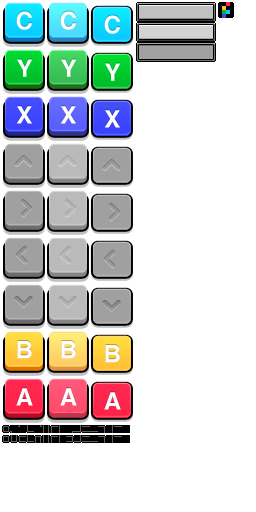
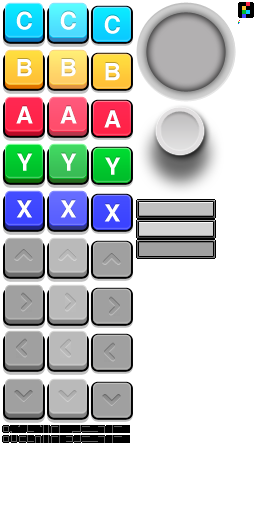
Bug Fix - FlxU::round : incorrect cast, should be int. Give wrong result when the value is a negative number.
Updated
- FlxAnalog: stick won't get stuck when the touch is outside the area of the base. Added motion when the stick is released.
- AnalogDemo.

Deleted
- control_base.png
- control_knob.png

Added
- new design for base and stick.

diff --git a/flixel/src/org/flixel/FlxAnalog.java b/flixel/src/org/flixel/FlxAnalog.java
@@ -1,7 +1,6 @@
 package org.flixel;
 
-import com.badlogic.gdx.Gdx;
-import com.badlogic.gdx.math.Circle;
+import com.badlogic.gdx.math.Rectangle;
 
 /**
  * 
@@ -10,9 +9,12 @@ import com.badlogic.gdx.math.Circle;
  */
 public class FlxAnalog extends FlxGroup
 {
-	/**
-	 * How fast the speed of this object is changing.
-	 */
+	// Base image
+	private final String ImgBase = "org/flixel/data/pack:base";
+	// Stick image
+	private final String ImgStick = "org/flixel/data/pack:stick";
+	
+	// How fast the speed of this object is changing.	
 	private static final float ACCELERATION = 10;
 	
 	public float x;
@@ -20,13 +22,16 @@ public class FlxAnalog extends FlxGroup
 	private float _centerX;
 	private float _centerY;
 
-	private Circle _pad;
+	private Rectangle _pad;
 	private FlxSprite _base;
-	private FlxSprite _stick;
+	public FlxSprite _stick;
 	
 	public FlxPoint accel;
 	public boolean pressed;
-	
+	private float yMin;
+	private float yMax;
+	private float xMin;
+	private float xMax;
 		
 	/**
 	 * Constructor
@@ -36,30 +41,30 @@ public class FlxAnalog extends FlxGroup
 	public FlxAnalog(float X, float Y)
 	{
 		accel  = new FlxPoint();
-		//float radius = Gdx.graphics.getWidth()/32;
-		float resWidth = Gdx.graphics.getWidth();
-		float resHeight = Gdx.graphics.getHeight();
-		float difWidth = FlxG.width/resWidth;
-		float difHeight = FlxG.height/resHeight;
-
 		x = X;
 		y = Y;		
 		
-		_pad = new Circle(64+X, 64+Y, 64);
-		_centerX = X+_pad.radius-32;
-		_centerY = Y+_pad.radius-32;
+		yMin = 0-24+y;
+		yMax = 100-24+y;
+		xMin = 0-24+x;
+		xMax = 100-24+x;
 		
-		_base = new FlxSprite(X,Y);//, SystemAsset.ImgControlBase);
-		_base.setAlpha(0.75f);
-		_base.scale = new FlxPoint(difWidth, difHeight);
+		_pad = new Rectangle(x,y,100,100);
+		_centerX = X+_pad.width*.25f;
+		_centerY = Y+_pad.width*.25f;
+		
+		_base = new FlxSprite(X,Y, ImgBase);
+		//_base.setAlpha(0.75f);
 		_base.setSolid(false);
-//		_base.ignoreDrawDebug = true;
+		_base.ignoreDrawDebug = true;
 		add(_base);
 		
-		_stick = new FlxSprite(_centerX, _centerY);//, SystemAsset.ImgControlKnob);
+		_stick = new FlxSprite(_centerX, _centerY, ImgStick);
+		_stick.width = _stick.height = 48;
+		_stick.offset.x = 20; 
+		_stick.offset.y = 3;
 		_stick.setSolid(false);
-		_stick.scale = new FlxPoint(difWidth, difHeight);
-//		_stick.ignoreDrawDebug = true;
+		_stick.ignoreDrawDebug = true;
 		add(_stick);
 	}
 	
@@ -69,20 +74,33 @@ public class FlxAnalog extends FlxGroup
 	{
 		if(FlxG.mouse.pressed())
 		{
-			if(_pad.contains(FlxG.mouse.x, FlxG.mouse.y))
+			if(_pad.contains(FlxG.mouse.screenX, FlxG.mouse.screenY) || pressed)
 			{
 				pressed = true;
 				_stick.x = FlxG.mouse.x - _stick.width*.5f;
 				_stick.y = FlxG.mouse.y - _stick.height*.5f;
-				accel.x = ((64 - (128 - (FlxG.mouse.x)))-x) / ACCELERATION;
-				accel.y = ((64 - (128 - (FlxG.mouse.y)))-y) / ACCELERATION;
+				
+				if(_stick.y <= yMin)
+					_stick.y = yMin;
+				if(_stick.y >= yMax)
+					_stick.y = yMax;
+				if(_stick.x <= xMin)
+					_stick.x = xMin;
+				if(_stick.x >= xMax)
+					_stick.x = xMax;
+				
+				accel.x = ((74 - (100 - (_stick.x)))-x) / ACCELERATION;
+				accel.y = ((74 - (100 - (_stick.y)))-y) / ACCELERATION;
 			}
 		}
 		else
 		{
 			pressed = false;			
-			_stick.x = _centerX;
-			_stick.y = _centerY;
+			_stick.x = _centerX -((_centerX - _stick.x) / 1.5f);
+			_stick.y = _centerY - ((_centerY - _stick.y) / 1.5f);
+			// TODO: add motion to accel when released.
+			accel.x = 0;//FlxU.round(((74 - (100 - (_stick.x)))-x) / ACCELERATION);
+			accel.y = 0;//FlxU.round(((74 - (100 - (_stick.y)))-y) / ACCELERATION);			
 		}
 		super.update();
 	}

diff --git a/flixel-examples/src/org/flixel/examples/analog/PlayState.java b/flixel-examples/src/org/flixel/examples/analog/PlayState.java
@@ -9,12 +9,13 @@ public class PlayState extends FlxState
 {
 	private FlxSprite _player;
 	private FlxAnalog _analog;
+	final float radiansToDegrees = (float) (180/Math.PI);
+	
 	
 	@Override
 	public void create()
 	{
-		FlxG.setBgColor(0xFFFAAAF);
-
+		FlxG.setBgColor(0xFF131C1B);
 		_player = new FlxSprite(10, 10);
 		add(_player);
 		
@@ -29,21 +30,34 @@ public class PlayState extends FlxState
 		add(s = new FlxSprite(FlxG.width-2, 0).makeGraphic(2, FlxG.height));
 		s.immovable = true;
 		
-		add(_analog = new FlxAnalog(0,0));
+		add(_analog = new FlxAnalog(10,FlxG.height-110));
 	}
 	
 	
 	@Override
 	public void update()
 	{
+		super.update();
 		_player.velocity.x = _player.velocity.y = 0;
-		if(_analog.pressed)
+		//if(_analog.pressed)
 		{
 			_player.velocity.x = 40*(_analog.accel.x);
 			_player.velocity.y = 40*(_analog.accel.y);
+			playerRotate();
 		}
 		FlxG.collide();
-		super.update();
+	}
+
+
+	private void playerRotate()
+	{		
+		float DiffX = 0 + _player.x;
+		float DiffY = 0 - _player.y;
+		float angle = (float) Math.atan2((_analog.accel.y - DiffY)-_player.y,(_analog.accel.x+DiffX)-_player.x);
+		angle *= radiansToDegrees;
+		
+		if(_analog.pressed)
+			_player.angle = angle;
 	}
 
 }

diff --git a/flixel/src/org/flixel/FlxU.java b/flixel/src/org/flixel/FlxU.java
@@ -94,7 +94,7 @@ public class FlxU
 	 */
 	static public float round(float Value)
 	{
-		float number = (float) (Value+((Value>0)?0.5:-0.5));
+		float number = (int) (Value+0.5);
 		return (Value>0)?(number):((number!=Value)?(number-1):(number));
 	}
 	
